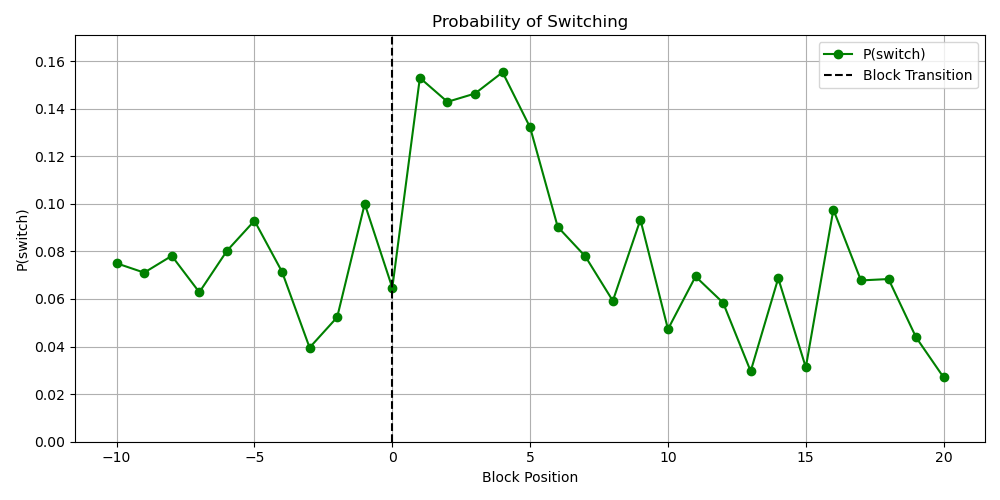
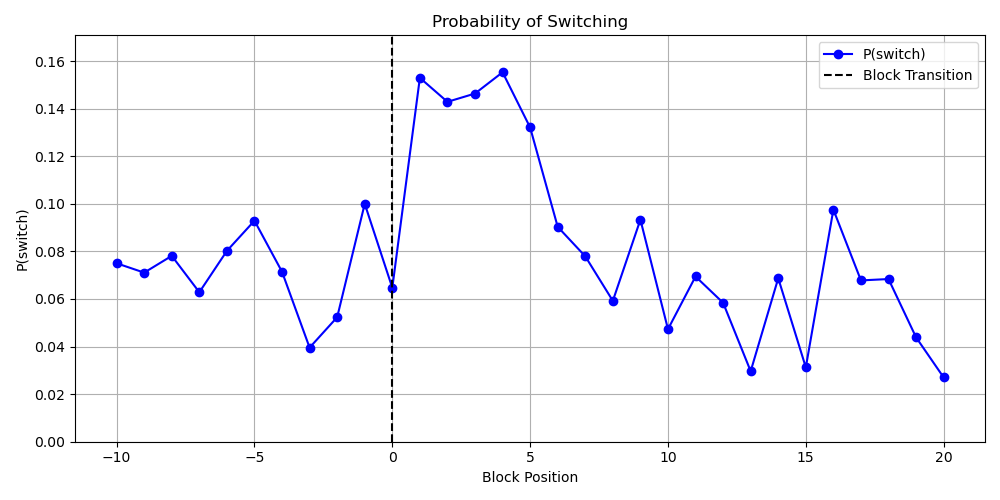
No more unrolling sequence, instead storing state

diff --git a/evaluation/graphs_on_trial_block_transitions.py b/evaluation/graphs_on_trial_block_transitions.py
@@ -177,7 +177,7 @@ def plot_probabilities(block_positions, high_reward_prob, switch_prob):
 
     # Plot P(switch)
     plt.figure(figsize=(10, 5))
-    plt.plot(block_positions, switch_prob, label="P(switch)", marker='o', color='green')
+    plt.plot(block_positions, switch_prob, label="P(switch)", marker='o', color='blue')
     plt.axvline(0, color='black', linestyle='--', label="Block Transition")
     plt.xlabel("Block Position")
     plt.ylabel("P(switch)")
